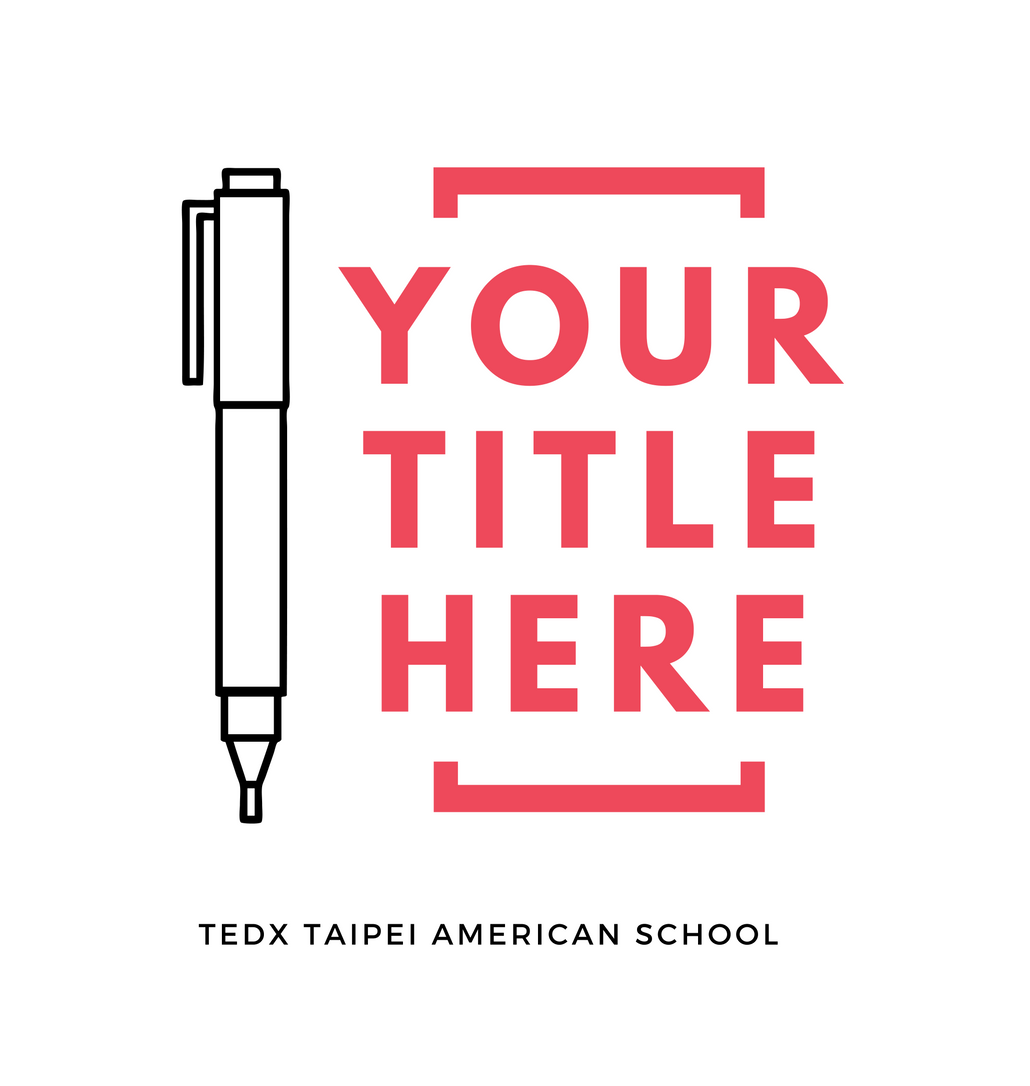
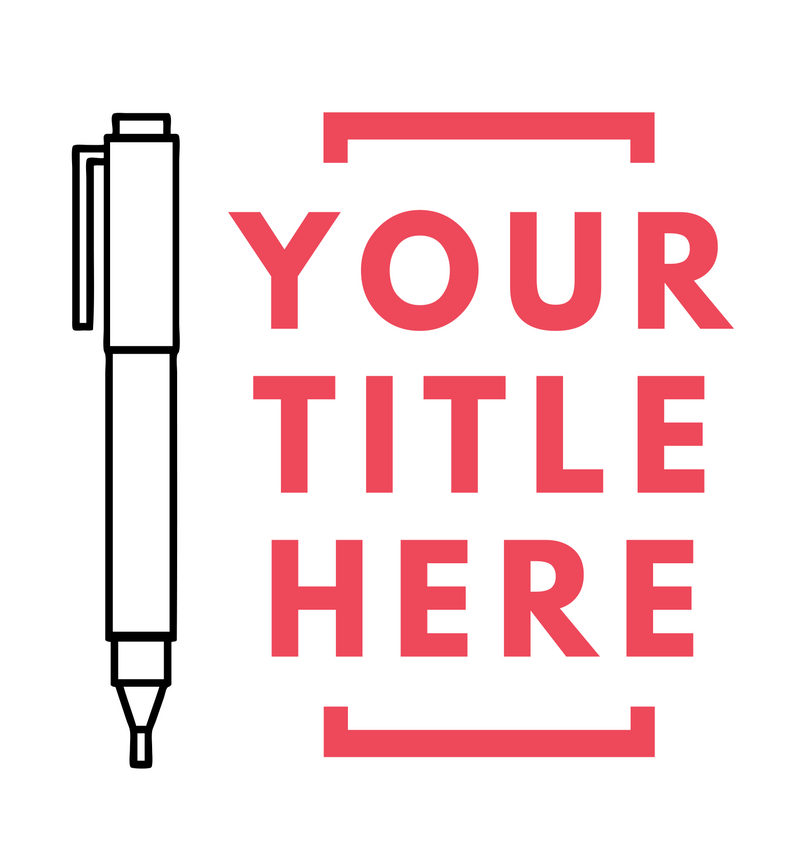
added images

Changed region(s): [[0.0624, 0.1235, 0.9051, 0.9264], [0.4057, 0.1235, 0.8427, 0.2162]]

diff --git a/index.html b/index.html
@@ -34,6 +34,7 @@
 						<div class="row">
 							<div class="col-xs-12">
 								<div id="centered-marketing">
+									<img src="yth.png" style="width: 200px;"></img>
 									<h2 id="marketing-text-container">Let's talk about<br/><input placeholder="your title here" id="marketing-text" style="text-align: center; border: none;"></input></h2>
 									<a class="btn btn-primary btn-lg" href="https://docs.google.com/forms/d/e/1FAIpQLSdu00fG97xhMoO04nnp0RyG8fv_n41TkTNx9_TqN7FtMBHZDw/viewform">Get tickets now →</a>
 								</div>
